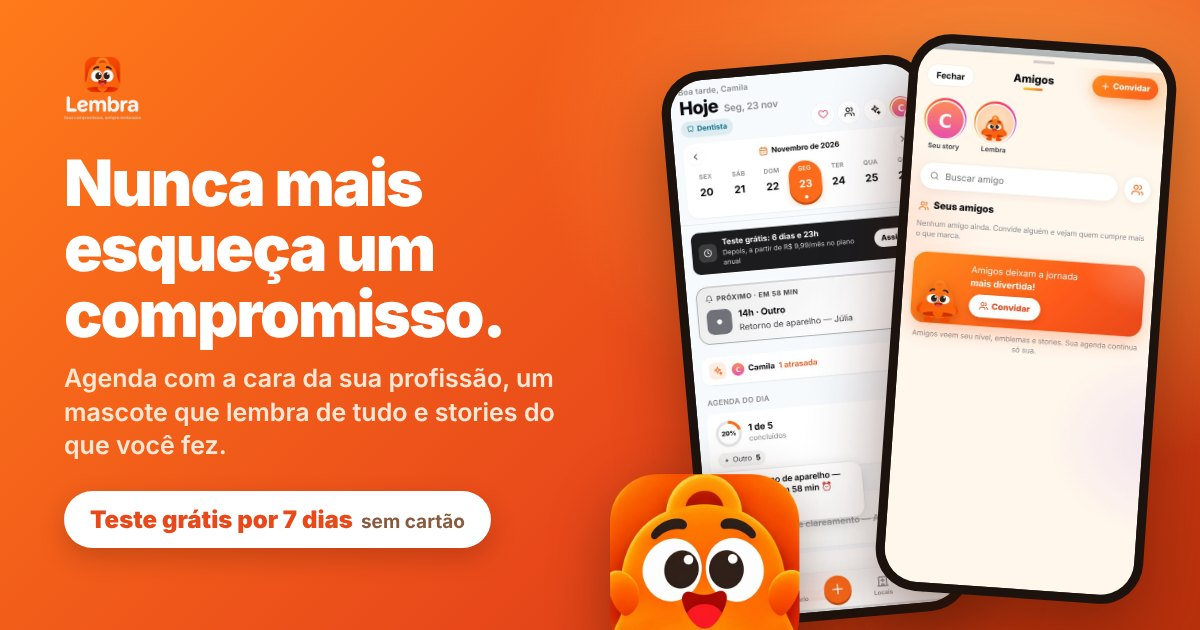
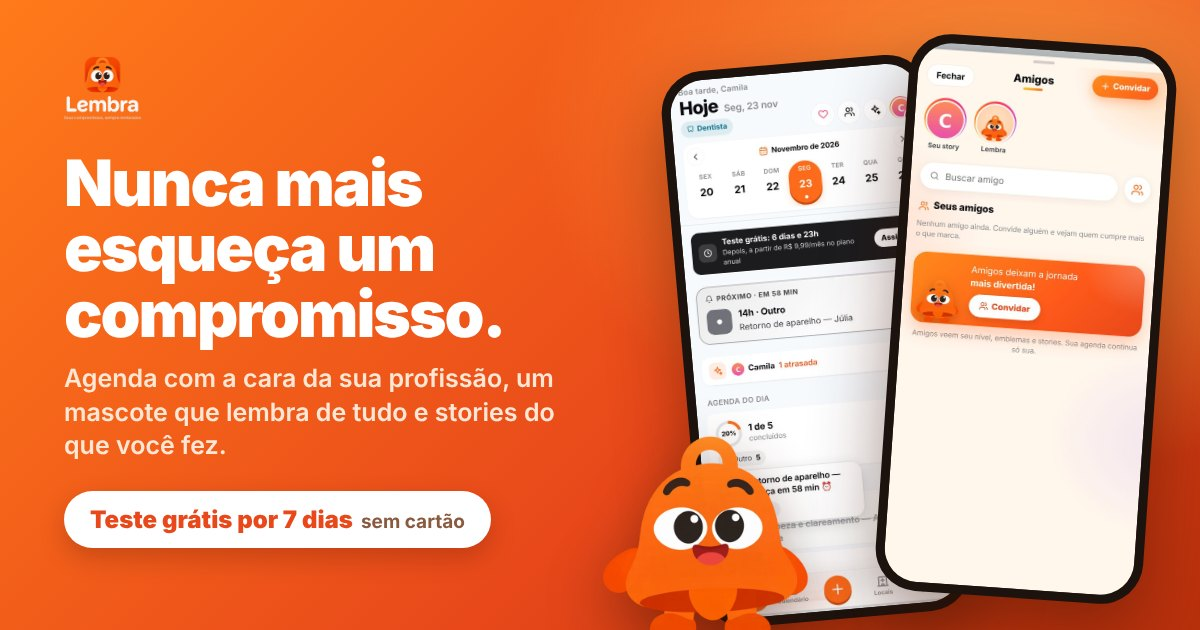
Conheça revisado como visitante: mascote de corpo inteiro (poses do app), balão sem repetir o print, seção do criador; prévia do link com o mascote novo
Claude-Session: https://claude.ai/code/session_0172xKu8maDccpPz8ThnxwgC

Changed region(s): [[0.4933, 0.6937, 0.6783, 1.0]]

diff --git a/pages/conheca.html b/pages/conheca.html
@@ -55,7 +55,7 @@ section{padding:88px 0}
 .hero .rotl{font-weight:800;color:var(--ink)}#rot{color:var(--o3)}#rot::after{content:'|';color:var(--o1);animation:pisca 1s steps(1) infinite}
 @keyframes pisca{50%{opacity:0}}
 .hstage{position:relative;display:flex;justify-content:center}
-.hstage .snh{position:absolute;left:-70px;bottom:-30px;width:190px;z-index:3;filter:drop-shadow(0 18px 24px rgba(120,50,0,.3));animation:flutua 3.6s ease-in-out infinite}
+.hstage .snh{position:absolute;left:-80px;bottom:-24px;width:200px;z-index:3;filter:drop-shadow(0 18px 24px rgba(120,50,0,.3));animation:flutua 3.6s ease-in-out infinite}
 .hstage .bub{position:absolute;left:-90px;top:90px;z-index:4;max-width:220px;background:#fff;border-radius:20px;padding:12px 16px;font-weight:750;font-size:15px;line-height:1.3;box-shadow:0 14px 30px rgba(80,40,0,.16);animation:entra .6s .4s both}
 .hstage .bub small{display:block;font-weight:600;color:var(--mute);font-size:12px;margin-top:4px}
 @keyframes flutua{50%{transform:translateY(-12px) rotate(-3deg)}}
@@ -69,7 +69,7 @@ section{padding:88px 0}
 .mas{background:linear-gradient(180deg,#FFE7D2,var(--bg))}
 .mas .grid{display:grid;grid-template-columns:.9fr 1.1fr;gap:40px;align-items:center}
 .mas .big{position:relative;display:flex;justify-content:center}
-.mas .big img{width:min(360px,80vw);filter:drop-shadow(0 30px 40px rgba(120,50,0,.28));animation:flutua 4s ease-in-out infinite}
+.mas .big img{width:min(320px,70vw);filter:drop-shadow(0 30px 40px rgba(120,50,0,.28));animation:flutua 4s ease-in-out infinite}
 .mas .big .falas{position:absolute;inset:0;pointer-events:none}
 .mas .big .f{position:absolute;background:#fff;border-radius:18px;padding:10px 14px;font-weight:750;font-size:14px;box-shadow:0 12px 26px rgba(80,40,0,.14);max-width:200px}
 .mas .big .f1{left:0;top:6%}.mas .big .f2{right:0;top:30%}.mas .big .f3{left:4%;bottom:12%}
@@ -125,6 +125,9 @@ section{padding:88px 0}
 .final img{width:150px;filter:drop-shadow(0 18px 24px rgba(80,20,0,.35));animation:flutua 3.6s ease-in-out infinite}
 .final h2{color:#fff;font-size:clamp(30px,5vw,46px);margin:14px auto;max-width:760px}.final p{color:#FFE7D6;font-size:18px;max-width:620px;margin:0 auto 26px}
 .final .cta{background:#fff;color:var(--o3)}.final .micro{justify-content:center;color:#FFE7D6}.final .micro span::before{color:#fff}
+.dono{background:#fff;padding:70px 0}.dono .wrap{display:flex;gap:30px;align-items:center;max-width:860px}.dono img{width:170px;flex:none;filter:drop-shadow(0 14px 20px rgba(120,50,0,.25))}
+.dono .q{font-size:clamp(19px,2.4vw,23px);line-height:1.45;color:var(--ink);font-weight:600;margin:14px 0 12px;letter-spacing:-.01em}.dono .who{color:var(--mute)}.dono .who b{color:var(--ink)}
+@media(max-width:700px){.dono .wrap{flex-direction:column;text-align:center}.dono img{width:130px}}
 footer{padding:28px 0;font-size:14px;color:var(--mute)}footer .wrap{display:flex;flex-wrap:wrap;justify-content:space-between;gap:10px}footer a{color:var(--mute)}
 .sticky{position:fixed;left:16px;right:16px;bottom:calc(14px + env(safe-area-inset-bottom));z-index:60;display:none;transform:translateY(140%);transition:transform .3s}
 .sticky .cta{width:100%}.sticky.show{transform:none}@media(max-width:860px){.sticky{display:block}}
@@ -143,15 +146,15 @@ footer{padding:28px 0;font-size:14px;color:var(--mute)}footer .wrap{display:flex
   </div>
   <div class="hstage">
     <div class="ph"><img src="../media/lp/v2-hoje.jpg" alt="Tela Hoje do {{APP}}"></div>
-    <div class="bub">Psiu… “Retorno de aparelho — Júlia” começa em 58 min ⏰<small>o Lembra, na hora certa</small></div>
-    <img class="snh" src="../media/marca/mascote.webp" alt="O Lembra, mascote do app">
+    <div class="bub">Ficou pra trás: “Pagar o aluguel”. Resolvo com você? 🔔<small>o Lembra, quando você esquece</small></div>
+    <img class="snh" src="../media/lp/snh-acena.webp" alt="O Lembra, mascote do app">
   </div>
 </div></section>
 <div class="strip"><div class="wrap"><div><b>200+</b><span>profissões com agenda própria</span></div><div><b>105</b><span>emblemas pra conquistar</span></div><div><b>2×</b><span>XP quando você mostra que fez</span></div><div><b>0</b><span>anúncios. Nunca.</span></div></div></div>
 <section class="mas" id="mascote"><div class="wrap">
   <div class="head rv"><span class="eyebrow">Conheça o Lembra</span><h2>Ele não é um sininho qualquer.</h2><p>É o seu parceiro de agenda: lembra pelo nome, percebe o seu ritmo e tem personalidade de sobra.</p></div>
   <div class="grid">
-    <div class="big rv"><img src="../media/marca/mascote.webp" alt="Lembra acenando"><div class="falas"><span class="f f1">Ficou pra trás: “Pagar o aluguel”. Resolvo com você? 🔔</span><span class="f f2">Tá doido?! Quer me deixar tonto? 😵</span><span class="f f3">Alguém tá fofocando no seu perfil, hehe 🤭</span></div></div>
+    <div class="big rv"><img src="../media/lp/snh-desconfiado.webp" alt="Lembra desconfiado"><div class="falas"><span class="f f1">Psiu… a Júlia chega em 58 min ⏰</span><span class="f f2">Tá doido?! Quer me deixar tonto? 😵</span><span class="f f3">Alguém tá fofocando no seu perfil, hehe 🤭</span></div></div>
     <div class="cards">
       <div class="card rv"><div class="ic">⏰</div><h3>Avisa na hora certa</h3><p>Calcula quantos lembretes você precisa e quando, com base em como você esquece.</p></div>
       <div class="card rv d1"><div class="ic">🧠</div><h3>Lembra do seu ritmo</h3><p>Corta o cabelo a cada 15 dias? Ele percebe e te avisa antes de você lembrar.</p></div>
@@ -176,6 +179,12 @@ footer{padding:28px 0;font-size:14px;color:var(--mute)}footer .wrap{display:flex
   <div class="head rv"><span class="eyebrow">Para a sua profissão</span><h2>A agenda muda com o seu trabalho.</h2><p>Os nomes, os tipos de compromisso e as dicas se adaptam a mais de 200 profissões.</p></div>
   <div class="chips rv"><span>🦷 Dentista</span><span>💇 Cabeleireira</span><span>🏋 Personal</span><span>⚖ Advogado</span><span>🎂 Confeiteira</span><span>🩺 Enfermeira</span><span>🏠 Corretor</span><span>💅 Manicure</span><span>📸 Fotógrafo</span><span>🧠 Psicóloga</span><span>🔧 Técnico</span><span>📚 Professor</span><span>🚗 Motorista</span><span>💼 Consultor</span><span>+ 190 outras</span></div>
   <div class="priv rv"><span class="ic">🔒</span><div><b>E um cantinho só seu.</b><p>O modo Pessoal guarda aniversários, contas, cuidados e listas. Ninguém mais vê — nem o seu chefe.</p></div></div>
+</div></section>
+<section class="dono"><div class="wrap rv">
+  <img src="../media/lp/snh-amor.webp" alt="">
+  <div><span class="eyebrow">Por que o Lembra existe</span>
+  <p class="q">“Eu vivia esquecendo cliente, conta, aniversário e coisa que prometi pra alguém. As agendas que eu testava só anotavam — ninguém me cobrava. Então eu criei o Lembra: uma agenda que avisa na hora, cobra com jeitinho quando atrasa e comemora comigo cada coisa feita.”</p>
+  <p class="who"><b>Henrique</b> · criador do {{APP}}</p></div>
 </div></section>
 <section class="price" id="preco"><div class="wrap">
   <div class="head rv"><span class="eyebrow">Preço</span><h2>Menos que um compromisso perdido.</h2><p>Teste 7 dias com tudo liberado, sem cartão. Depois, escolha.</p></div>
@@ -202,7 +211,7 @@ footer{padding:28px 0;font-size:14px;color:var(--mute)}footer .wrap{display:flex
   </div>
 </div></section>
 <section class="final"><div class="wrap rv">
-  <img src="../media/marca/mascote.webp" alt="">
+  <img src="../media/lp/snh-comemora.webp" alt="">
   <h2>Deixa a memória comigo. Fica com a cabeça livre.</h2>
   <p>Configure em 2 minutos e teste 7 dias com tudo liberado, sem cartão.</p>
   <a class="cta" href="../#/cadastro" data-keep>Começar meu teste grátis →</a>

diff --git a/conheca/index.html b/conheca/index.html
@@ -55,7 +55,7 @@ section{padding:88px 0}
 .hero .rotl{font-weight:800;color:var(--ink)}#rot{color:var(--o3)}#rot::after{content:'|';color:var(--o1);animation:pisca 1s steps(1) infinite}
 @keyframes pisca{50%{opacity:0}}
 .hstage{position:relative;display:flex;justify-content:center}
-.hstage .snh{position:absolute;left:-70px;bottom:-30px;width:190px;z-index:3;filter:drop-shadow(0 18px 24px rgba(120,50,0,.3));animation:flutua 3.6s ease-in-out infinite}
+.hstage .snh{position:absolute;left:-80px;bottom:-24px;width:200px;z-index:3;filter:drop-shadow(0 18px 24px rgba(120,50,0,.3));animation:flutua 3.6s ease-in-out infinite}
 .hstage .bub{position:absolute;left:-90px;top:90px;z-index:4;max-width:220px;background:#fff;border-radius:20px;padding:12px 16px;font-weight:750;font-size:15px;line-height:1.3;box-shadow:0 14px 30px rgba(80,40,0,.16);animation:entra .6s .4s both}
 .hstage .bub small{display:block;font-weight:600;color:var(--mute);font-size:12px;margin-top:4px}
 @keyframes flutua{50%{transform:translateY(-12px) rotate(-3deg)}}
@@ -69,7 +69,7 @@ section{padding:88px 0}
 .mas{background:linear-gradient(180deg,#FFE7D2,var(--bg))}
 .mas .grid{display:grid;grid-template-columns:.9fr 1.1fr;gap:40px;align-items:center}
 .mas .big{position:relative;display:flex;justify-content:center}
-.mas .big img{width:min(360px,80vw);filter:drop-shadow(0 30px 40px rgba(120,50,0,.28));animation:flutua 4s ease-in-out infinite}
+.mas .big img{width:min(320px,70vw);filter:drop-shadow(0 30px 40px rgba(120,50,0,.28));animation:flutua 4s ease-in-out infinite}
 .mas .big .falas{position:absolute;inset:0;pointer-events:none}
 .mas .big .f{position:absolute;background:#fff;border-radius:18px;padding:10px 14px;font-weight:750;font-size:14px;box-shadow:0 12px 26px rgba(80,40,0,.14);max-width:200px}
 .mas .big .f1{left:0;top:6%}.mas .big .f2{right:0;top:30%}.mas .big .f3{left:4%;bottom:12%}
@@ -125,6 +125,9 @@ section{padding:88px 0}
 .final img{width:150px;filter:drop-shadow(0 18px 24px rgba(80,20,0,.35));animation:flutua 3.6s ease-in-out infinite}
 .final h2{color:#fff;font-size:clamp(30px,5vw,46px);margin:14px auto;max-width:760px}.final p{color:#FFE7D6;font-size:18px;max-width:620px;margin:0 auto 26px}
 .final .cta{background:#fff;color:var(--o3)}.final .micro{justify-content:center;color:#FFE7D6}.final .micro span::before{color:#fff}
+.dono{background:#fff;padding:70px 0}.dono .wrap{display:flex;gap:30px;align-items:center;max-width:860px}.dono img{width:170px;flex:none;filter:drop-shadow(0 14px 20px rgba(120,50,0,.25))}
+.dono .q{font-size:clamp(19px,2.4vw,23px);line-height:1.45;color:var(--ink);font-weight:600;margin:14px 0 12px;letter-spacing:-.01em}.dono .who{color:var(--mute)}.dono .who b{color:var(--ink)}
+@media(max-width:700px){.dono .wrap{flex-direction:column;text-align:center}.dono img{width:130px}}
 footer{padding:28px 0;font-size:14px;color:var(--mute)}footer .wrap{display:flex;flex-wrap:wrap;justify-content:space-between;gap:10px}footer a{color:var(--mute)}
 .sticky{position:fixed;left:16px;right:16px;bottom:calc(14px + env(safe-area-inset-bottom));z-index:60;display:none;transform:translateY(140%);transition:transform .3s}
 .sticky .cta{width:100%}.sticky.show{transform:none}@media(max-width:860px){.sticky{display:block}}
@@ -143,15 +146,15 @@ footer{padding:28px 0;font-size:14px;color:var(--mute)}footer .wrap{display:flex
   </div>
   <div class="hstage">
     <div class="ph"><img src="../media/lp/v2-hoje.jpg" alt="Tela Hoje do Lembra"></div>
-    <div class="bub">Psiu… “Retorno de aparelho — Júlia” começa em 58 min ⏰<small>o Lembra, na hora certa</small></div>
-    <img class="snh" src="../media/marca/mascote.webp" alt="O Lembra, mascote do app">
+    <div class="bub">Ficou pra trás: “Pagar o aluguel”. Resolvo com você? 🔔<small>o Lembra, quando você esquece</small></div>
+    <img class="snh" src="../media/lp/snh-acena.webp" alt="O Lembra, mascote do app">
   </div>
 </div></section>
 <div class="strip"><div class="wrap"><div><b>200+</b><span>profissões com agenda própria</span></div><div><b>105</b><span>emblemas pra conquistar</span></div><div><b>2×</b><span>XP quando você mostra que fez</span></div><div><b>0</b><span>anúncios. Nunca.</span></div></div></div>
 <section class="mas" id="mascote"><div class="wrap">
   <div class="head rv"><span class="eyebrow">Conheça o Lembra</span><h2>Ele não é um sininho qualquer.</h2><p>É o seu parceiro de agenda: lembra pelo nome, percebe o seu ritmo e tem personalidade de sobra.</p></div>
   <div class="grid">
-    <div class="big rv"><img src="../media/marca/mascote.webp" alt="Lembra acenando"><div class="falas"><span class="f f1">Ficou pra trás: “Pagar o aluguel”. Resolvo com você? 🔔</span><span class="f f2">Tá doido?! Quer me deixar tonto? 😵</span><span class="f f3">Alguém tá fofocando no seu perfil, hehe 🤭</span></div></div>
+    <div class="big rv"><img src="../media/lp/snh-desconfiado.webp" alt="Lembra desconfiado"><div class="falas"><span class="f f1">Psiu… a Júlia chega em 58 min ⏰</span><span class="f f2">Tá doido?! Quer me deixar tonto? 😵</span><span class="f f3">Alguém tá fofocando no seu perfil, hehe 🤭</span></div></div>
     <div class="cards">
       <div class="card rv"><div class="ic">⏰</div><h3>Avisa na hora certa</h3><p>Calcula quantos lembretes você precisa e quando, com base em como você esquece.</p></div>
       <div class="card rv d1"><div class="ic">🧠</div><h3>Lembra do seu ritmo</h3><p>Corta o cabelo a cada 15 dias? Ele percebe e te avisa antes de você lembrar.</p></div>
@@ -176,6 +179,12 @@ footer{padding:28px 0;font-size:14px;color:var(--mute)}footer .wrap{display:flex
   <div class="head rv"><span class="eyebrow">Para a sua profissão</span><h2>A agenda muda com o seu trabalho.</h2><p>Os nomes, os tipos de compromisso e as dicas se adaptam a mais de 200 profissões.</p></div>
   <div class="chips rv"><span>🦷 Dentista</span><span>💇 Cabeleireira</span><span>🏋 Personal</span><span>⚖ Advogado</span><span>🎂 Confeiteira</span><span>🩺 Enfermeira</span><span>🏠 Corretor</span><span>💅 Manicure</span><span>📸 Fotógrafo</span><span>🧠 Psicóloga</span><span>🔧 Técnico</span><span>📚 Professor</span><span>🚗 Motorista</span><span>💼 Consultor</span><span>+ 190 outras</span></div>
   <div class="priv rv"><span class="ic">🔒</span><div><b>E um cantinho só seu.</b><p>O modo Pessoal guarda aniversários, contas, cuidados e listas. Ninguém mais vê — nem o seu chefe.</p></div></div>
+</div></section>
+<section class="dono"><div class="wrap rv">
+  <img src="../media/lp/snh-amor.webp" alt="">
+  <div><span class="eyebrow">Por que o Lembra existe</span>
+  <p class="q">“Eu vivia esquecendo cliente, conta, aniversário e coisa que prometi pra alguém. As agendas que eu testava só anotavam — ninguém me cobrava. Então eu criei o Lembra: uma agenda que avisa na hora, cobra com jeitinho quando atrasa e comemora comigo cada coisa feita.”</p>
+  <p class="who"><b>Henrique</b> · criador do Lembra</p></div>
 </div></section>
 <section class="price" id="preco"><div class="wrap">
   <div class="head rv"><span class="eyebrow">Preço</span><h2>Menos que um compromisso perdido.</h2><p>Teste 7 dias com tudo liberado, sem cartão. Depois, escolha.</p></div>
@@ -202,7 +211,7 @@ footer{padding:28px 0;font-size:14px;color:var(--mute)}footer .wrap{display:flex
   </div>
 </div></section>
 <section class="final"><div class="wrap rv">
-  <img src="../media/marca/mascote.webp" alt="">
+  <img src="../media/lp/snh-comemora.webp" alt="">
   <h2>Deixa a memória comigo. Fica com a cabeça livre.</h2>
   <p>Configure em 2 minutos e teste 7 dias com tudo liberado, sem cartão.</p>
   <a class="cta" href="../#/cadastro" data-keep>Começar meu teste grátis →</a>
